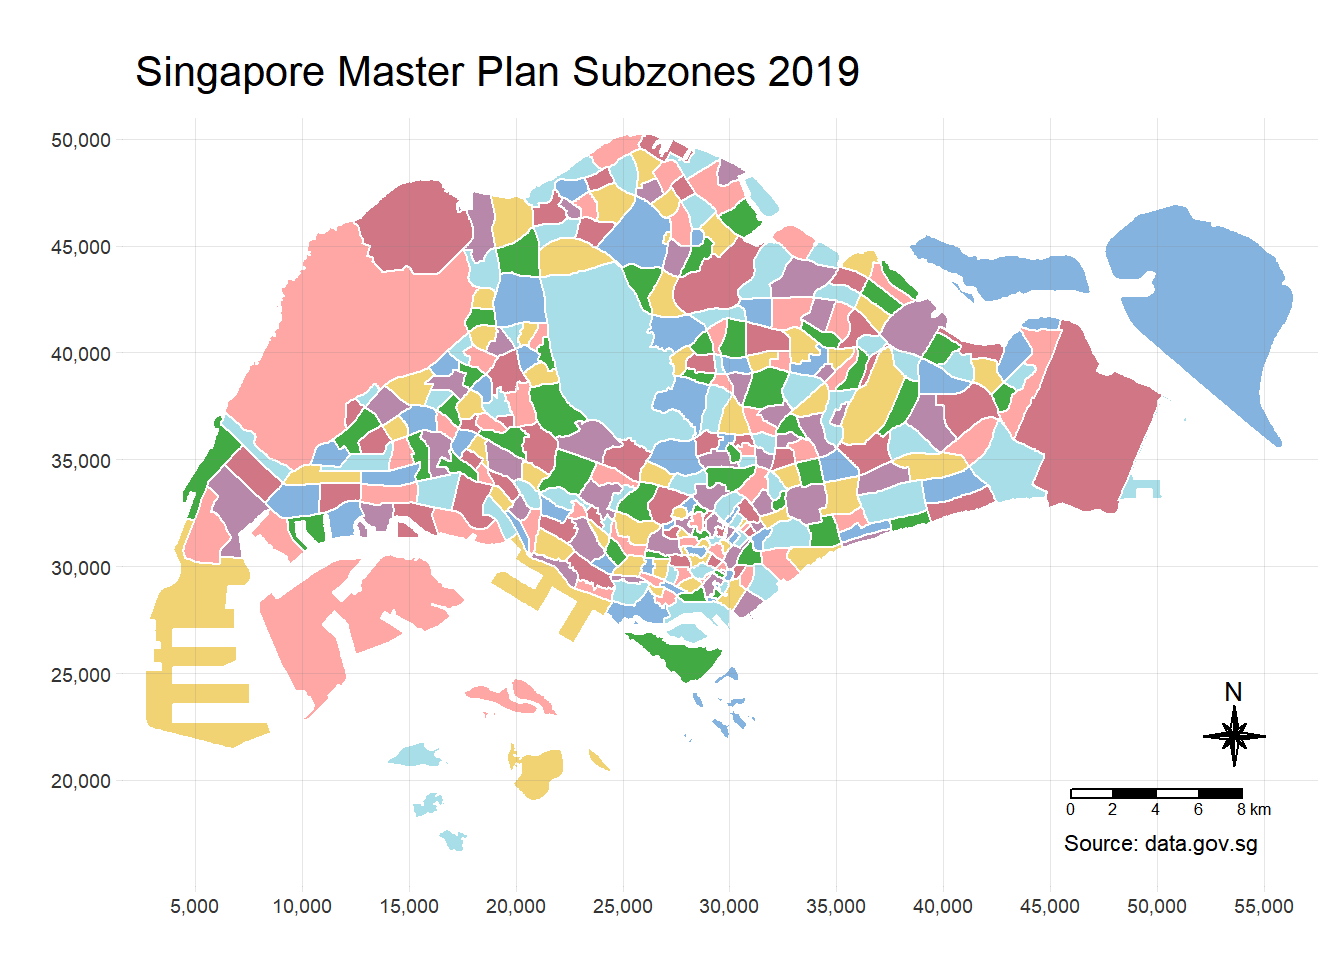
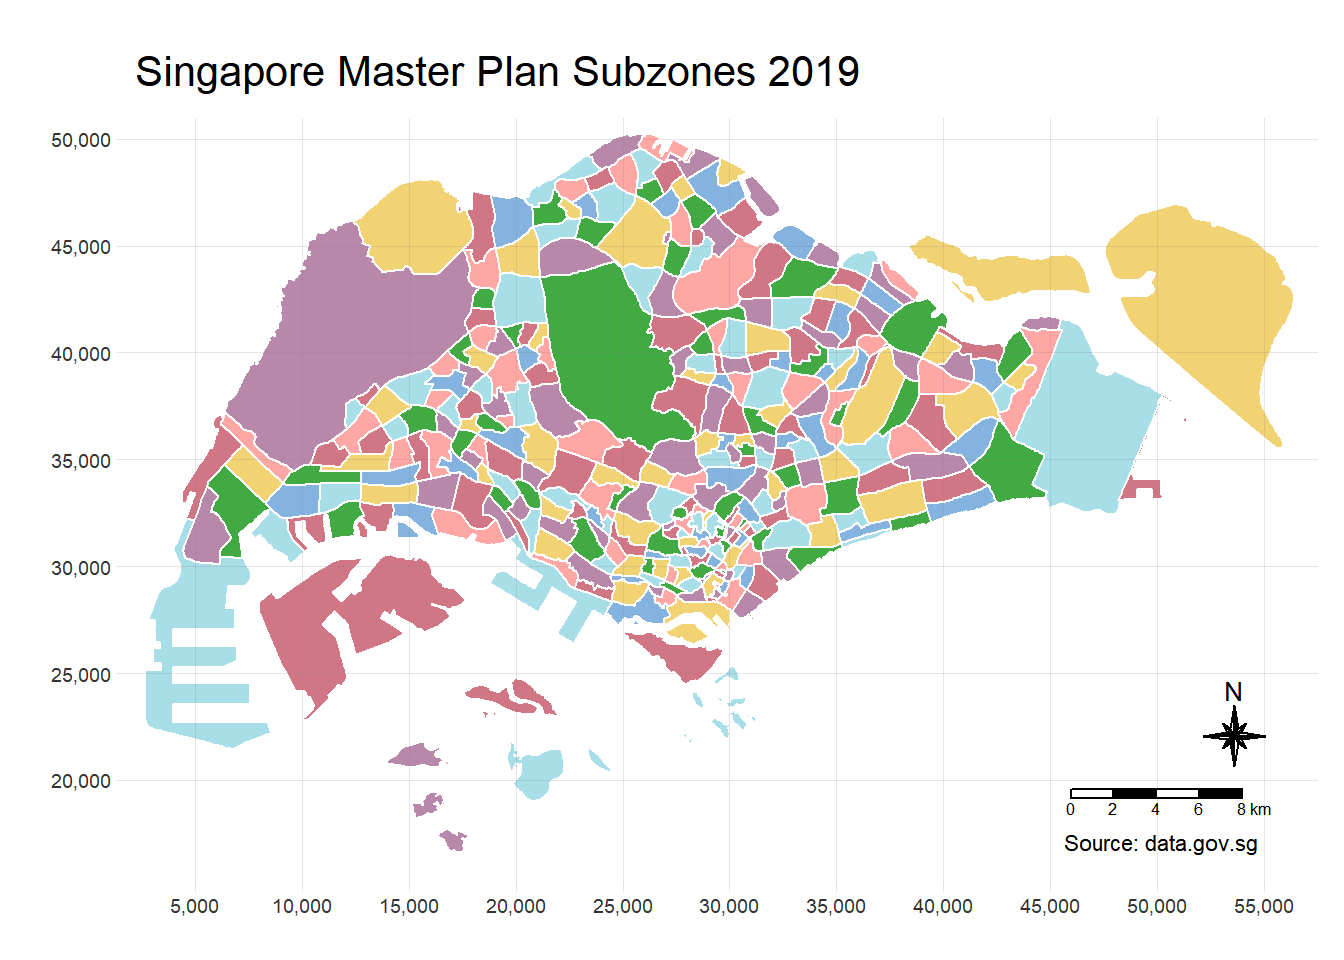
update hands on ex 09, last two images are manually saved as they cannot be displayed properly

diff --git a/_site/Hands-on_Ex/Hands-on_Ex09/Hands-on_Ex09.html b/_site/Hands-on_Ex/Hands-on_Ex09/Hands-on_Ex09.html
@@ -1372,14 +1372,9 @@ PROJCRS["SVY21 / Singapore TM",
 <span>  <span class="fu">tm_compass</span><span class="op">(</span>type<span class="op">=</span><span class="st">"8star"</span>, size <span class="op">=</span> <span class="fl">2</span><span class="op">)</span> <span class="op">+</span></span>
 <span>  <span class="fu">tm_scalebar</span><span class="op">(</span><span class="op">)</span> <span class="op">+</span></span>
 <span>  <span class="fu">tm_grid</span><span class="op">(</span>alpha <span class="op">=</span> <span class="fl">0.2</span><span class="op">)</span></span></code></pre></div><button title="Copy to Clipboard" class="code-copy-button"><i class="bi"></i></button></div>
-<div class="cell-output-display">
-<div>
-<figure class="figure"><p><img src="Hands-on_Ex09_files/figure-html/unnamed-chunk-32-1.png" class="img-fluid figure-img" width="672"></p>
-</figure>
 </div>
-</div>
-</div>
-<p>The SAM map displays a spatial pattern very similar to the Hansen results. However, the SAM values are much more interpretable, instead of many zero values and long decimal numbers, the scores range from approximately 0.1 to 740, making the scale more user-friendly.</p>
+<p><img src="img/sammap.png" class="img-fluid"></p>
+<p><img src=".png" class="img-fluid">The SAM map displays a spatial pattern very similar to the Hansen results. However, the SAM values are much more interpretable, instead of many zero values and long decimal numbers, the scores range from approximately 0.1 to 740, making the scale more user-friendly.</p>
 </section><section id="statistical-graphic-visualisation-2" class="level3" data-number="8.3"><h3 data-number="8.3" class="anchored" data-anchor-id="statistical-graphic-visualisation-2">
 <span class="header-section-number">8.3</span> Statistical Graphic Visualisation</h3>
 <p>In this section, we compare the distribution of SAM accessiblity scores across URA Planning regions. To do so, we first append the main dataset <code>mpsz</code> to the <code>hexagon_SAM</code> <code>sf</code> data frame using <code>st_join()</code>.</p>
@@ -1392,14 +1387,8 @@ PROJCRS["SVY21 / Singapore TM",
 <span>       <span class="fu">aes</span><span class="op">(</span>y <span class="op">=</span> <span class="fu"><a href="https://rdrr.io/r/base/Log.html">log</a></span><span class="op">(</span><span class="va">accSAM</span><span class="op">)</span>, x<span class="op">=</span> <span class="va">REGION_N</span><span class="op">)</span><span class="op">)</span> <span class="op">+</span></span>
 <span>  <span class="fu">geom_boxplot</span><span class="op">(</span><span class="op">)</span> <span class="op">+</span></span>
 <span>  <span class="fu">stat_summary</span><span class="op">(</span>fun<span class="op">=</span><span class="st">"mean"</span>, colour <span class="op">=</span><span class="st">"red"</span>, size<span class="op">=</span><span class="fl">0.5</span><span class="op">)</span></span></code></pre></div><button title="Copy to Clipboard" class="code-copy-button"><i class="bi"></i></button></div>
-<div class="cell-output-display">
-<div>
-<figure class="figure"><p><img src="Hands-on_Ex09_files/figure-html/unnamed-chunk-34-1.png" class="img-fluid figure-img" width="672"></p>
-</figure>
 </div>
-</div>
-</div>
-<p>SAM accessibility ranking (from highest to lowest) (consistent with Hansen): Central,North-East, North, East and West.</p>
+<p><img src="img/sambp.png" class="img-fluid">SAM accessibility ranking (from highest to lowest) (consistent with Hansen): Central,North-East, North, East and West.</p>
 <p>The Central Region contains two notable outliers, Crawford and Lavender from Kallang subzone, with SAM accessibility scores of approximately 740, far exceeding values observed elsewhere.</p>
 </section></section><section id="reference" class="level2" data-number="9"><h2 data-number="9" class="anchored" data-anchor-id="reference">
 <span class="header-section-number">9</span> Reference</h2>
